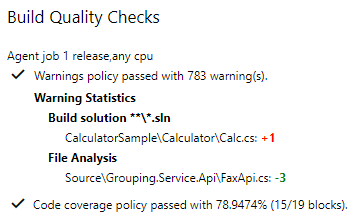
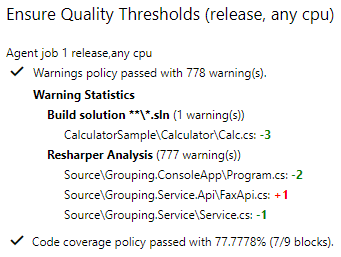
Update docs to v7.3.0

diff --git a/BuildQualityChecks/en-US/overview.md b/BuildQualityChecks/en-US/overview.md
@@ -20,12 +20,12 @@ The *Build Quality Checks* (in task category *Build*) task needs to be placed af
 **Note:** When you want to use the [Code Coverage Policy](https://github.com/MicrosoftPremier/VstsExtensions/blob/master/BuildQualityChecks/en-US/CodeCoveragePolicy.md) you need to make sure that you publish code coverage values calculated by your test tool first. The Policy itself does **not** calculate the code coverage. Before you add the task and activate the policy, please make sure that you can already see code coverage values in your build summary. If you are using a test tool other then MSTest (i.e., anything other than the _Visual Studio Test_ task), please use the _Publish Code Coverage Results_ task to publish your coverage data before you add the policy.
 
 ### Adding the Task to a YAML Build Definition
-To add the *Build Quality Checks* task to a YAML build definition, use the  task name and major version like this `- task: BuildQualityChecks@6` and set a display name using the `displayName` property. Then add all task inputs as described under [Task Parameters](#task-parameters) or in the [Policies](#policies) section.
+To add the *Build Quality Checks* task to a YAML build definition, use the  task name and major version like this `- task: BuildQualityChecks@7` and set a display name using the `displayName` property. Then add all task inputs as described under [Task Parameters](#task-parameters) or in the [Policies](#policies) section.
 
 YAML snippet:
 
 ``` yaml
-- task: BuildQualityChecks@6
+- task: BuildQualityChecks@7
   displayName: 'Check build quality'
   inputs:
     # ===== Warnings Policy Inputs =====
@@ -44,7 +44,7 @@ YAML snippet:
     #warningFilesFolder: # Optional
     #warningFiles: # Required if evaluateFileWarnings = true
     #warningFileFilters: # Required if evaluateFileWarnings = true
-    #warningFilesArtifact: # Required if evaluateFileWarnings = true and warningFailOption = build
+    #warningFilesArtifact: # Required if evaluateFileWarnings = true and (warningFailOption = build or showStatistics = true)
     # ===== Code Coverage Policy Inputs =====
     #checkCoverage: false # Optional
     #coverageFailOption: build # Optional; Valid values: build, fixed
@@ -71,6 +71,7 @@ YAML snippet:
     #baseBranchRef: # Optional
     # ===== Reporting Inputs =====
     #runTitle: # Optional
+    #fileAnalysisTitle: # Optional
     # ===== Advanced Inputs =====
     #disableCertCheck: false # Optional
     #createBuildIssues: true # Optional
@@ -122,9 +123,13 @@ If you choose `Previous Value` for the *Fail Build On* option for one of the pol
 #### Reporting Options
 ![Reporting Options](../assets/ReportingOptions.png "Configuring reporting options")
 
-If you are using multiple *Build Quality Checks* tasks within the same build, you may use the **Run Title** parameter to specify a title that is associated with a specific instance of the task. This will help distinguishing between the task results in the summary section. The run title is added to the subsection header in the summary in the format \<Build Job Name\> - \<Run Title\>.
+- <a name="runTitle">**Run Title:**</a> If you are using multiple *Build Quality Checks* tasks within the same build, you may use this parameter to specify a title that is associated with a specific instance of the task. This will help distinguishing between the task results in the summary section. The run title is used as the section header in the summary (see [Extension Summary Section](#extension-summary-section)).
 
-**YAML: runTitle** - (Optional) Default is empty. Provide a run title.
+  **YAML: runTitle** - (Optional) Default is empty.
+
+- <a name="fileAnalysisTitle">**File Analysis Title:**</a> Provide a custom name for the file warnings analysis. The name is used in warning statistics instead of the default value _File Analysis_. (see [Show Warning Statistics](https://github.com/MicrosoftPremier/VstsExtensions/blob/master/BuildQualityChecks/en-US/WarningsPolicy.md#statistics)).
+
+  **YAML: fileAnalysisTitle** - (Optional) Default is empty.
 
 #### Advanced
 ![Advanced Parameters](../assets/Advanced.png "Configuring advanced options")

diff --git a/BuildQualityChecks/en-US/WarningsPolicy.md b/BuildQualityChecks/en-US/WarningsPolicy.md
@@ -123,8 +123,10 @@ When running in a pull request validation build, the *Warnings Policy* publishes
 
 - <a name="warningFilesArtifact">**Build Artifact:**</a> (Required) Provide the name of the build artifact containing log files from the previous build that can be used to run file warnings analysis.
   
-  If you want to compare the number of current warnings against the value from the previous build (see *Fail Build On*) and you enable file warnings analysis (see *Evaluate File Warnings*), the task needs files from the previous build to compare against. Those files usually don't exist on the build agent anymore. Thus, you have to publish all files you want to analyze as a build artifact and provide the artifact name in this parameter so that the task can download the files from the previous build and analyze them.
+  If you want to compare the number of current warnings against the value from the previous build (see *Fail Build On*) or you configure the task to create warning statistics (see *Show Warning Statistics*), and you enable file warnings analysis (see *Evaluate File Warnings*), the task needs files from the previous build to compare against. Those files usually don't exist on the build agent anymore. Thus, you have to publish all files you want to analyze as a build artifact and provide the artifact name in this parameter so that the task can download the files from the previous build and analyze them.
 
   **Note:** You need to ensure that the file patterns specified in *Files* matches both the files from the current build and the files from the previous build! In order to properly compare files, the file names must be identical (i.e., a *File1.log* from the current build will only be compared to a *File1.log* from the previous build). In order to support multiple files with the same name, files are matched based on their relative path based on the *Source Folder* or the artifact root folder respectively.
 
-  **YAML: warningFilesArtifact** - (Required) Default is empty. Required if **evaluateFileWarnings** is set to *true* and **warningFailOption** is set to *build*.
+  **Note:** Due to a limitation in the task UI, this field is always marked as required in the UI even if its value is not used by the task. Just leave the default value if you don't need the artifact (i.e., if you configured a fixed warning threshold and not enabled statistics).
+
+  **YAML: warningFilesArtifact** - (Required) Default is empty. Required if **evaluateFileWarnings** is set to *true* and **warningFailOption** is set to *build* or **showStatistics** is set to *true*.

diff --git a/BuildQualityChecks/en-US/changeNotes.md b/BuildQualityChecks/en-US/changeNotes.md
@@ -2,6 +2,13 @@
 
 # Build Quality Checks - Change Notes
 
+#### 7.3.0
+- Fix: Create warning statistics when only file warnings analysis is enabled.
+- Improvements to policy result output:
+  - Make run title more prominent
+  - Display subtotals in warning statistics
+  - Add warning file analysis title
+
 #### 7.2.2
 - Fix typo in warning message.
 - Additional fixes for GitHub baseline handling. (GitHub issue #102)
